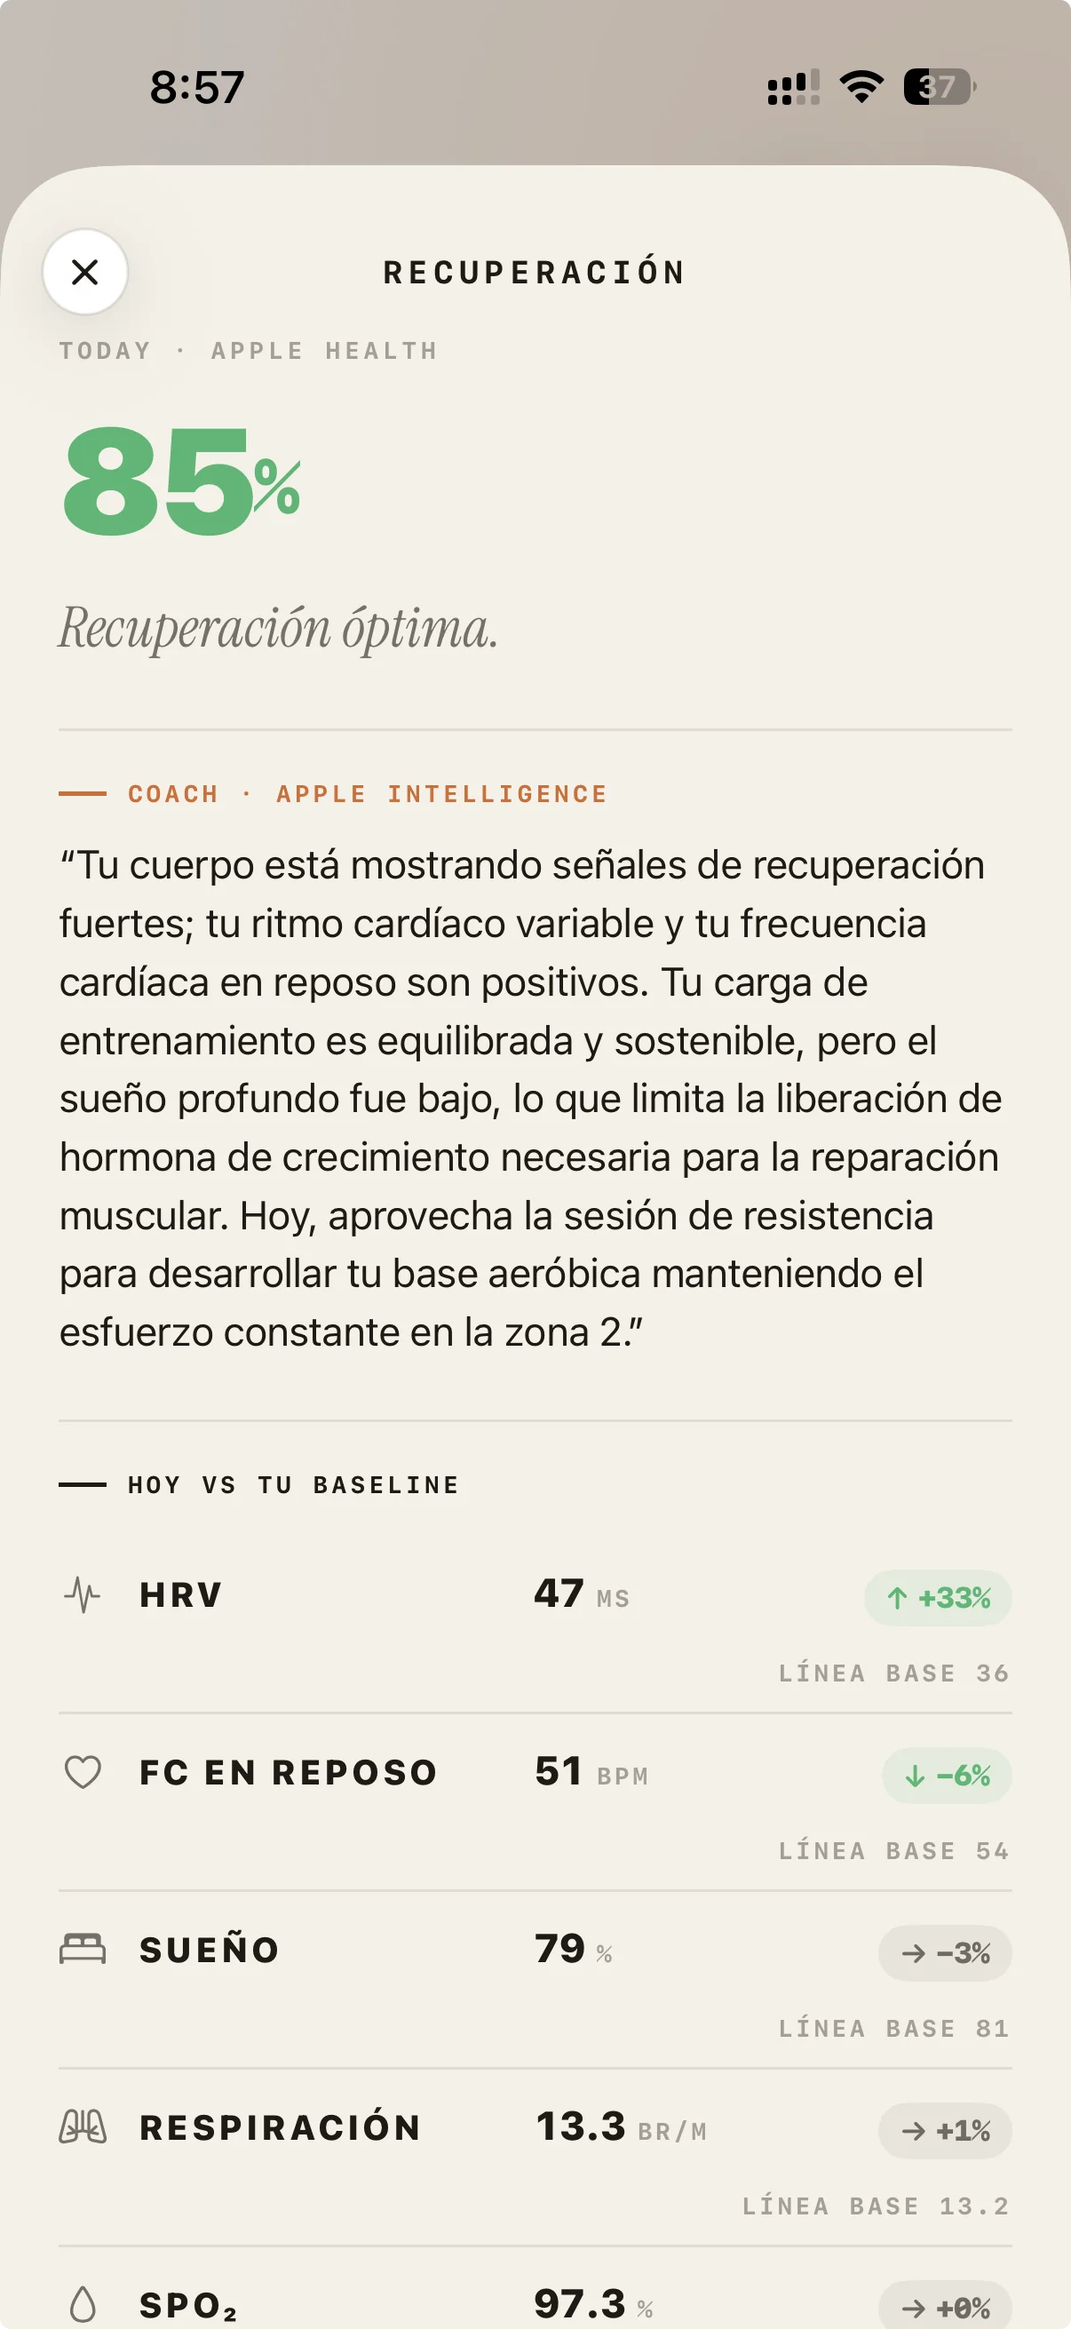
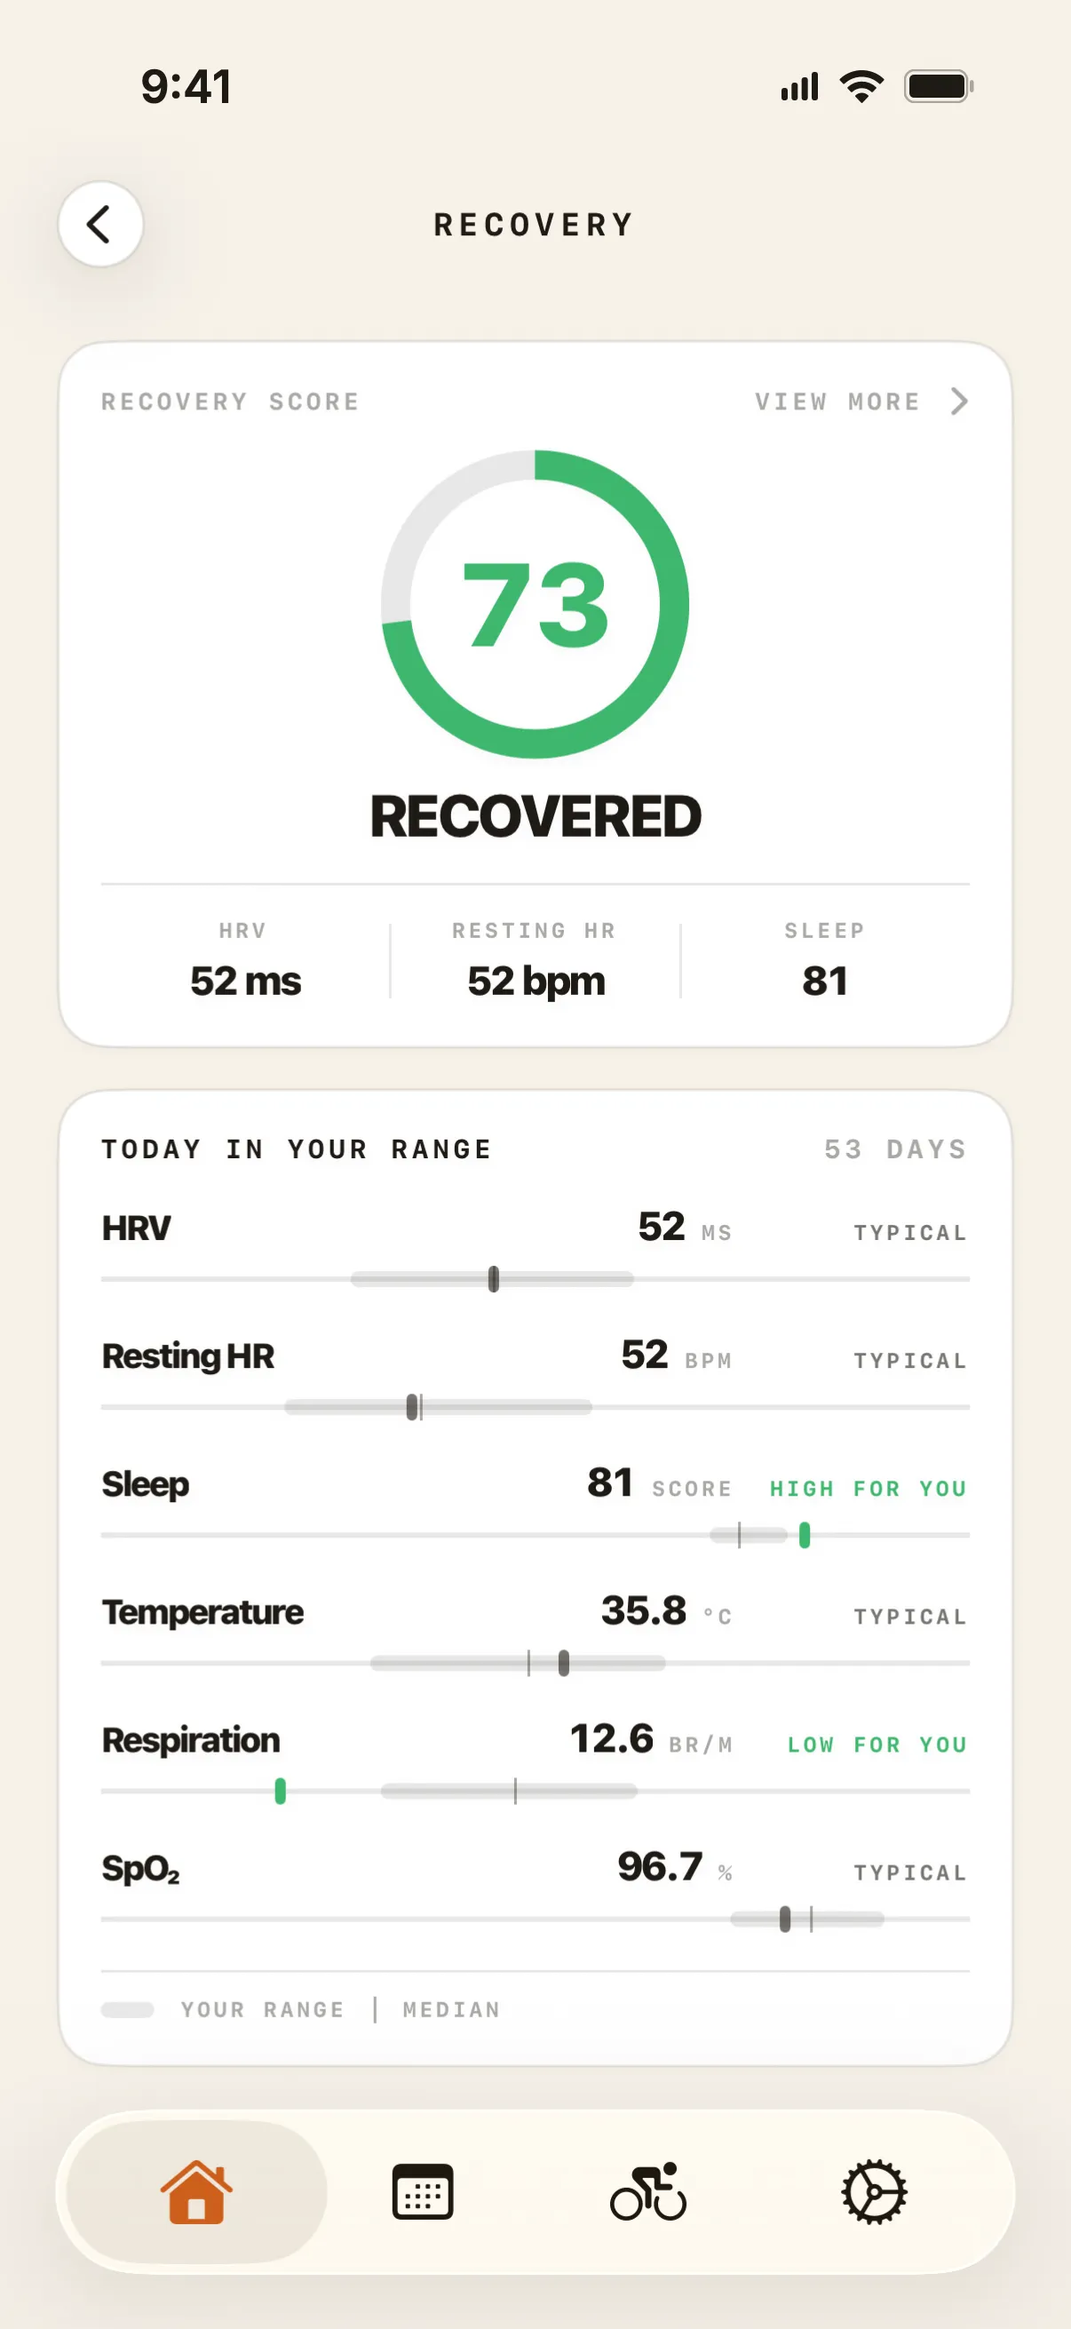
Complete the localized capture sets and add Ride Analysis
The four captures that were blocking check-screenshots landed in all
three locales, along with a new screen. This closes the gap.

Derives hero-training-load.webp in each locale from that locale's
training-load.webp, the same way the other two hero files are derived.
That was the last missing filename: check-screenshots now passes, and
every one of the 16 captures on the English page is served from en/
rather than falling back.

Re-derives the three flat hero files too. The rest of the flat set had
already been replaced with the English captures, but the hero files were
still duplicates of the old Spanish ones, leaving the fallback
half-translated. Flat is now a byte copy of en/ throughout, which is
what the README says it should be.

Carousel goes 9 -> 10 with Ride Analysis, placed right after Activity —
it is a tab of that same screen. The caption names what the chart itself
plots ("This ride" against "Your best") rather than inventing a claim
about it. Like the Effort Calculator it is Premium: MMP, power curve and
W/kg are per-activity detailed analysis, so it belongs in the carousel
and not in the #free panel.

Verified in Chromium: 10 items, 10 dots, each pointing at its own
capture, and no horizontal overflow at 320/390/768/1440.

diff --git a/ca/index.html b/ca/index.html
@@ -199,7 +199,7 @@
              Swap assets/screenshots/hero-*.webp with your final hero shots. -->
         <div class="phone hp-side hero-pop" style="--pop-delay:.54s"><img src="../assets/screenshots/ca/hero-recovery.webp" alt="Recovery" width="1206" height="2622" decoding="async" /></div>
         <div class="phone hp-center hero-pop" style="--pop-delay:.40s"><img src="../assets/screenshots/ca/hero-today.webp" alt="Today" width="1206" height="2622" decoding="async" fetchpriority="high" /></div>
-        <div class="phone hp-side hero-pop" style="--pop-delay:.64s"><img src="../assets/screenshots/hero-training-load.webp" alt="Training load" width="1206" height="2622" decoding="async" /></div>
+        <div class="phone hp-side hero-pop" style="--pop-delay:.64s"><img src="../assets/screenshots/ca/hero-training-load.webp" alt="Training load" width="1206" height="2622" decoding="async" /></div>
         <div class="hp-callout co1 co-in" style="--pop-delay:1.12s;--co-from:-32px"><span class="co-label" data-i18n="co.recovery.label">Recuperació</span><span class="co-text" data-i18n="co.recovery.text">Llegeix VFC i son des d’Apple Health</span></div>
         <div class="hp-callout co2 co-in" style="--pop-delay:1.25s;--co-from:32px"><span class="co-label" data-i18n="co.adapts.label">S’adapta</span><span class="co-text" data-i18n="co.adapts.text">Reescriu la setmana quan la vida canvia</span></div>
         <div class="hp-callout co3 co-in" style="--pop-delay:1.38s;--co-from:-32px"><span class="co-label" data-i18n="co.motor.label">El teu motor</span><span class="co-text" data-i18n="co.motor.text">eFTP i corba de potència, sempre al dia</span></div>
@@ -213,7 +213,7 @@
   <div class="wrap">
     <div class="showcase-top">
       <div class="section-head" style="margin-bottom:0">
-        <p class="eyebrow" data-i18n="screens.eyebrow">El producte · 9 pantalles</p>
+        <p class="eyebrow" data-i18n="screens.eyebrow">El producte · 10 pantalles</p>
         <h2 class="section-title" data-i18n="screens.title">Mira’l en acció.</h2>
       </div>
       <div class="carousel-arrows">
@@ -232,6 +232,7 @@
       <div class="carousel-item"><div class="phone"><img src="../assets/screenshots/ca/sleep.webp" alt="Sleep" width="1206" height="2622" loading="lazy" decoding="async" /></div><div class="cap"><div class="cap-eyebrow" data-i18n="cap.sleep.e">Son</div><div class="cap-title" data-i18n="cap.sleep.t">La puntuació, i la nit que hi ha al darrere</div></div></div>
       <div class="carousel-item"><div class="phone"><img src="../assets/screenshots/ca/calendar.webp" alt="Calendar" width="1206" height="2622" loading="lazy" decoding="async" /></div><div class="cap"><div class="cap-eyebrow" data-i18n="cap.calendar.e">Calendari</div><div class="cap-title" data-i18n="cap.calendar.t">El teu pla, setmana a setmana</div></div></div>
       <div class="carousel-item"><div class="phone"><img src="../assets/screenshots/ca/activity.webp" alt="Activity" width="1206" height="2622" loading="lazy" decoding="async" /></div><div class="cap"><div class="cap-eyebrow" data-i18n="cap.activity.e">Activitat</div><div class="cap-title" data-i18n="cap.activity.t">Potència. FC. Desnivell. Zones.</div></div></div>
+      <div class="carousel-item"><div class="phone"><img src="../assets/screenshots/ca/activity-analysis.webp" alt="Ride analysis" width="1206" height="2622" loading="lazy" decoding="async" /></div><div class="cap"><div class="cap-eyebrow" data-i18n="cap.analysis.e">Anàlisi de la sortida</div><div class="cap-title" data-i18n="cap.analysis.t">La teva corba de potència, davant dels teus millors registres</div></div></div>
       <div class="carousel-item"><div class="phone"><img src="../assets/screenshots/ca/nutrition.webp" alt="Nutrition" width="1206" height="2622" loading="lazy" decoding="async" /></div><div class="cap"><div class="cap-eyebrow" data-i18n="cap.nutrition.e">Nutrició</div><div class="cap-title" data-i18n="cap.nutrition.t">Pla d’avituallament de cursa</div></div></div>
     </div>
   </div>

diff --git a/es/index.html b/es/index.html
@@ -199,7 +199,7 @@
              Swap assets/screenshots/hero-*.webp with your final hero shots. -->
         <div class="phone hp-side hero-pop" style="--pop-delay:.54s"><img src="../assets/screenshots/es/hero-recovery.webp" alt="Recovery" width="1206" height="2622" decoding="async" /></div>
         <div class="phone hp-center hero-pop" style="--pop-delay:.40s"><img src="../assets/screenshots/es/hero-today.webp" alt="Today" width="1206" height="2622" decoding="async" fetchpriority="high" /></div>
-        <div class="phone hp-side hero-pop" style="--pop-delay:.64s"><img src="../assets/screenshots/hero-training-load.webp" alt="Training load" width="1206" height="2622" decoding="async" /></div>
+        <div class="phone hp-side hero-pop" style="--pop-delay:.64s"><img src="../assets/screenshots/es/hero-training-load.webp" alt="Training load" width="1206" height="2622" decoding="async" /></div>
         <div class="hp-callout co1 co-in" style="--pop-delay:1.12s;--co-from:-32px"><span class="co-label" data-i18n="co.recovery.label">Recuperación</span><span class="co-text" data-i18n="co.recovery.text">Lee VFC y sueño desde Apple Health</span></div>
         <div class="hp-callout co2 co-in" style="--pop-delay:1.25s;--co-from:32px"><span class="co-label" data-i18n="co.adapts.label">Se adapta</span><span class="co-text" data-i18n="co.adapts.text">Reescribe la semana cuando la vida cambia</span></div>
         <div class="hp-callout co3 co-in" style="--pop-delay:1.38s;--co-from:-32px"><span class="co-label" data-i18n="co.motor.label">Tu motor</span><span class="co-text" data-i18n="co.motor.text">eFTP y curva de potencia, siempre al día</span></div>
@@ -213,7 +213,7 @@
   <div class="wrap">
     <div class="showcase-top">
       <div class="section-head" style="margin-bottom:0">
-        <p class="eyebrow" data-i18n="screens.eyebrow">El producto · 9 pantallas</p>
+        <p class="eyebrow" data-i18n="screens.eyebrow">El producto · 10 pantallas</p>
         <h2 class="section-title" data-i18n="screens.title">Míralo en acción.</h2>
       </div>
       <div class="carousel-arrows">
@@ -232,6 +232,7 @@
       <div class="carousel-item"><div class="phone"><img src="../assets/screenshots/es/sleep.webp" alt="Sleep" width="1206" height="2622" loading="lazy" decoding="async" /></div><div class="cap"><div class="cap-eyebrow" data-i18n="cap.sleep.e">Sueño</div><div class="cap-title" data-i18n="cap.sleep.t">La puntuación, y la noche que hay detrás</div></div></div>
       <div class="carousel-item"><div class="phone"><img src="../assets/screenshots/es/calendar.webp" alt="Calendar" width="1206" height="2622" loading="lazy" decoding="async" /></div><div class="cap"><div class="cap-eyebrow" data-i18n="cap.calendar.e">Calendario</div><div class="cap-title" data-i18n="cap.calendar.t">Tu plan, semana a semana</div></div></div>
       <div class="carousel-item"><div class="phone"><img src="../assets/screenshots/es/activity.webp" alt="Activity" width="1206" height="2622" loading="lazy" decoding="async" /></div><div class="cap"><div class="cap-eyebrow" data-i18n="cap.activity.e">Actividad</div><div class="cap-title" data-i18n="cap.activity.t">Potencia. FC. Desnivel. Zonas.</div></div></div>
+      <div class="carousel-item"><div class="phone"><img src="../assets/screenshots/es/activity-analysis.webp" alt="Ride analysis" width="1206" height="2622" loading="lazy" decoding="async" /></div><div class="cap"><div class="cap-eyebrow" data-i18n="cap.analysis.e">Análisis de la salida</div><div class="cap-title" data-i18n="cap.analysis.t">Tu curva de potencia, frente a tus mejores marcas</div></div></div>
       <div class="carousel-item"><div class="phone"><img src="../assets/screenshots/es/nutrition.webp" alt="Nutrition" width="1206" height="2622" loading="lazy" decoding="async" /></div><div class="cap"><div class="cap-eyebrow" data-i18n="cap.nutrition.e">Nutrición</div><div class="cap-title" data-i18n="cap.nutrition.t">Plan de avituallamiento de carrera</div></div></div>
     </div>
   </div>

diff --git a/index.html b/index.html
@@ -180,7 +180,7 @@
              Swap assets/screenshots/hero-*.webp with your final hero shots. -->
         <div class="phone hp-side hero-pop" style="--pop-delay:.54s"><img src="assets/screenshots/en/hero-recovery.webp" alt="Recovery" width="1206" height="2622" decoding="async" /></div>
         <div class="phone hp-center hero-pop" style="--pop-delay:.40s"><img src="assets/screenshots/en/hero-today.webp" alt="Today" width="1206" height="2622" decoding="async" fetchpriority="high" /></div>
-        <div class="phone hp-side hero-pop" style="--pop-delay:.64s"><img src="assets/screenshots/hero-training-load.webp" alt="Training load" width="1206" height="2622" decoding="async" /></div>
+        <div class="phone hp-side hero-pop" style="--pop-delay:.64s"><img src="assets/screenshots/en/hero-training-load.webp" alt="Training load" width="1206" height="2622" decoding="async" /></div>
         <div class="hp-callout co1 co-in" style="--pop-delay:1.12s;--co-from:-32px"><span class="co-label" data-i18n="co.recovery.label">Recovery</span><span class="co-text" data-i18n="co.recovery.text">Reads HRV &amp; sleep from Apple Health</span></div>
         <div class="hp-callout co2 co-in" style="--pop-delay:1.25s;--co-from:32px"><span class="co-label" data-i18n="co.adapts.label">Adapts</span><span class="co-text" data-i18n="co.adapts.text">Rewrites the week when life shifts</span></div>
         <div class="hp-callout co3 co-in" style="--pop-delay:1.38s;--co-from:-32px"><span class="co-label" data-i18n="co.motor.label">Your motor</span><span class="co-text" data-i18n="co.motor.text">eFTP &amp; power curve, always current</span></div>
@@ -194,7 +194,7 @@
   <div class="wrap">
     <div class="showcase-top">
       <div class="section-head" style="margin-bottom:0">
-        <p class="eyebrow" data-i18n="screens.eyebrow">The product · 9 screens</p>
+        <p class="eyebrow" data-i18n="screens.eyebrow">The product · 10 screens</p>
         <h2 class="section-title" data-i18n="screens.title">See it in action.</h2>
       </div>
       <div class="carousel-arrows">
@@ -213,6 +213,7 @@
       <div class="carousel-item"><div class="phone"><img src="assets/screenshots/en/sleep.webp" alt="Sleep" width="1206" height="2622" loading="lazy" decoding="async" /></div><div class="cap"><div class="cap-eyebrow" data-i18n="cap.sleep.e">Sleep</div><div class="cap-title" data-i18n="cap.sleep.t">The score, and the night behind it</div></div></div>
       <div class="carousel-item"><div class="phone"><img src="assets/screenshots/en/calendar.webp" alt="Calendar" width="1206" height="2622" loading="lazy" decoding="async" /></div><div class="cap"><div class="cap-eyebrow" data-i18n="cap.calendar.e">Calendar</div><div class="cap-title" data-i18n="cap.calendar.t">Your plan, week by week</div></div></div>
       <div class="carousel-item"><div class="phone"><img src="assets/screenshots/en/activity.webp" alt="Activity" width="1206" height="2622" loading="lazy" decoding="async" /></div><div class="cap"><div class="cap-eyebrow" data-i18n="cap.activity.e">Activity</div><div class="cap-title" data-i18n="cap.activity.t">Power. HR. Elevation. Zones.</div></div></div>
+      <div class="carousel-item"><div class="phone"><img src="assets/screenshots/en/activity-analysis.webp" alt="Ride analysis" width="1206" height="2622" loading="lazy" decoding="async" /></div><div class="cap"><div class="cap-eyebrow" data-i18n="cap.analysis.e">Ride Analysis</div><div class="cap-title" data-i18n="cap.analysis.t">Your power curve, against your best</div></div></div>
       <div class="carousel-item"><div class="phone"><img src="assets/screenshots/en/nutrition.webp" alt="Nutrition" width="1206" height="2622" loading="lazy" decoding="async" /></div><div class="cap"><div class="cap-eyebrow" data-i18n="cap.nutrition.e">Nutrition</div><div class="cap-title" data-i18n="cap.nutrition.t">Race-day fueling plan</div></div></div>
     </div>
   </div>

diff --git a/assets/js/i18n.js b/assets/js/i18n.js
@@ -69,6 +69,8 @@
   "avail.now.iphone": "<b>Ya disponible</b> · iPhone",
   "cap.activity.e": "Actividad",
   "cap.activity.t": "Potencia. FC. Desnivel. Zonas.",
+  "cap.analysis.e": "Análisis de la salida",
+  "cap.analysis.t": "Tu curva de potencia, frente a tus mejores marcas",
   "cap.calendar.e": "Calendario",
   "cap.calendar.t": "Tu plan, semana a semana",
   "cap.effort.e": "Calculadora de esfuerzo",
@@ -377,7 +379,7 @@
   "s7.title": "Tus derechos",
   "s8.title": "Privacidad de menores",
   "s9.title": "Cambios en esta política",
-  "screens.eyebrow": "El producto · 9 pantallas",
+  "screens.eyebrow": "El producto · 10 pantallas",
   "screens.title": "Míralo en acción.",
   "start.01.d": "Gratis en el App Store, iPhone con iOS 26 o posterior. Sin tarjeta y sin cuenta atrás de prueba.",
   "start.01.t": "Descárgala y ábrela",
@@ -489,6 +491,8 @@
   "avail.now.iphone": "<b>Ja disponible</b> · iPhone",
   "cap.activity.e": "Activitat",
   "cap.activity.t": "Potència. FC. Desnivell. Zones.",
+  "cap.analysis.e": "Anàlisi de la sortida",
+  "cap.analysis.t": "La teva corba de potència, davant dels teus millors registres",
   "cap.calendar.e": "Calendari",
   "cap.calendar.t": "El teu pla, setmana a setmana",
   "cap.effort.e": "Calculadora d’esforç",
@@ -797,7 +801,7 @@
   "s7.title": "Els teus drets",
   "s8.title": "Privacitat de menors",
   "s9.title": "Canvis en aquesta política",
-  "screens.eyebrow": "El producte · 9 pantalles",
+  "screens.eyebrow": "El producte · 10 pantalles",
   "screens.title": "Mira’l en acció.",
   "start.01.d": "Gratis a l’App Store, iPhone amb iOS 26 o posterior. Sense targeta i sense compte enrere de prova.",
   "start.01.t": "Descarrega-la i obre-la",

diff --git a/assets/screenshots/README.md b/assets/screenshots/README.md
@@ -18,32 +18,16 @@ three locale directories are complete, the flat set is never served — its only
 remaining job is to define the canonical filename list the checker validates
 against.
 
-The flat set is currently **mixed**: the five screens added in the localization
-pass (`sleep`, `sleep-hypnogram`, `recovery-trend`, `effort-calculator`,
-`share-sheet`) are copies of the English captures, while the older files are
-still Spanish. That inconsistency is invisible as long as every locale
-directory is complete, and it disappears for good once the four missing
-captures below are supplied in all three languages.
+The flat set is a byte copy of `en/`. English is the source language and the
+`x-default` hreflang target, so if a locale directory ever regresses, the
+fallback still matches the canonical page rather than serving Spanish to an
+English reader.
 
-## Still missing (this is why CI is red)
+All three locale directories are complete, so nothing here is currently
+served — but keep the flat set in step with `en/` anyway, since it is what the
+checker validates the locale directories against.
 
-Each locale directory needs these before `npm run check` passes:
-
-| File | Status |
-| --- | --- |
-| `activity.webp` | needs a real capture, per locale |
-| `calendar.webp` | needs a real capture, per locale |
-| `nutrition.webp` | needs a real capture, per locale |
-| `training-load.webp` | needs a real capture, per locale |
-| `hero-training-load.webp` | copy of that locale's `training-load.webp` |
-
-Note the existing flat captures for these four are from an **older build of the
-app** — five tab-bar items instead of four, and a different status bar. Reusing
-them to fill a locale directory would pass the checker but ship two visibly
-different app versions in the same carousel, so re-capture them rather than
-copying the flat files across.
-
-## The 15 filenames (identical in every locale directory)
+## The 16 filenames (identical in every locale directory)
 
 Hero — the three phones at the top of the home page:
 
@@ -53,7 +37,7 @@ Hero — the three phones at the top of the home page:
 | `hero-today.webp` | centre phone (the LCP image) |
 | `hero-training-load.webp` | right phone |
 
-Carousel — the nine frames in the "screens" section, in order:
+Carousel — the ten frames in the "screens" section, in order:
 
 | File | Caption |
 | --- | --- |
@@ -65,6 +49,7 @@ Carousel — the nine frames in the "screens" section, in order:
 | `sleep.webp` | Sleep |
 | `calendar.webp` | Calendar |
 | `activity.webp` | Activity |
+| `activity-analysis.webp` | Ride Analysis |
 | `nutrition.webp` | Nutrition |
 
 Free-tier proof shots — the three phones inside the `#free` panel. Each backs
@@ -76,8 +61,9 @@ one of the bullets above it, so all three must stay **free** surfaces:
 | `recovery-trend.webp` | `free.3` — the 30-day trend |
 | `share-sheet.webp` | `free.4` — the share card |
 
-The Effort Calculator is Premium (eFTP / power curve), which is why it appears
-in the carousel and deliberately **not** in the `#free` panel.
+The Effort Calculator and Ride Analysis are Premium (eFTP, power curve,
+per-activity detailed analysis), which is why they appear in the carousel and
+deliberately **not** in the `#free` panel.
 
 ## Format
 
@@ -88,7 +74,7 @@ in the carousel and deliberately **not** in the `#free` panel.
 ## A locale directory must be complete
 
 `tools/check-screenshots.js` (run by `npm run check` and by CI) fails if a
-locale directory exists but is missing any of the 15 filenames, or contains a
+locale directory exists but is missing any of the 16 filenames, or contains a
 `.webp` the flat set doesn't have. This is deliberate: `build.js` localizes each
 `<img>` individually and only when that exact file exists, so a half-filled
 directory would ship a mix of languages on one page — worse than a consistent
